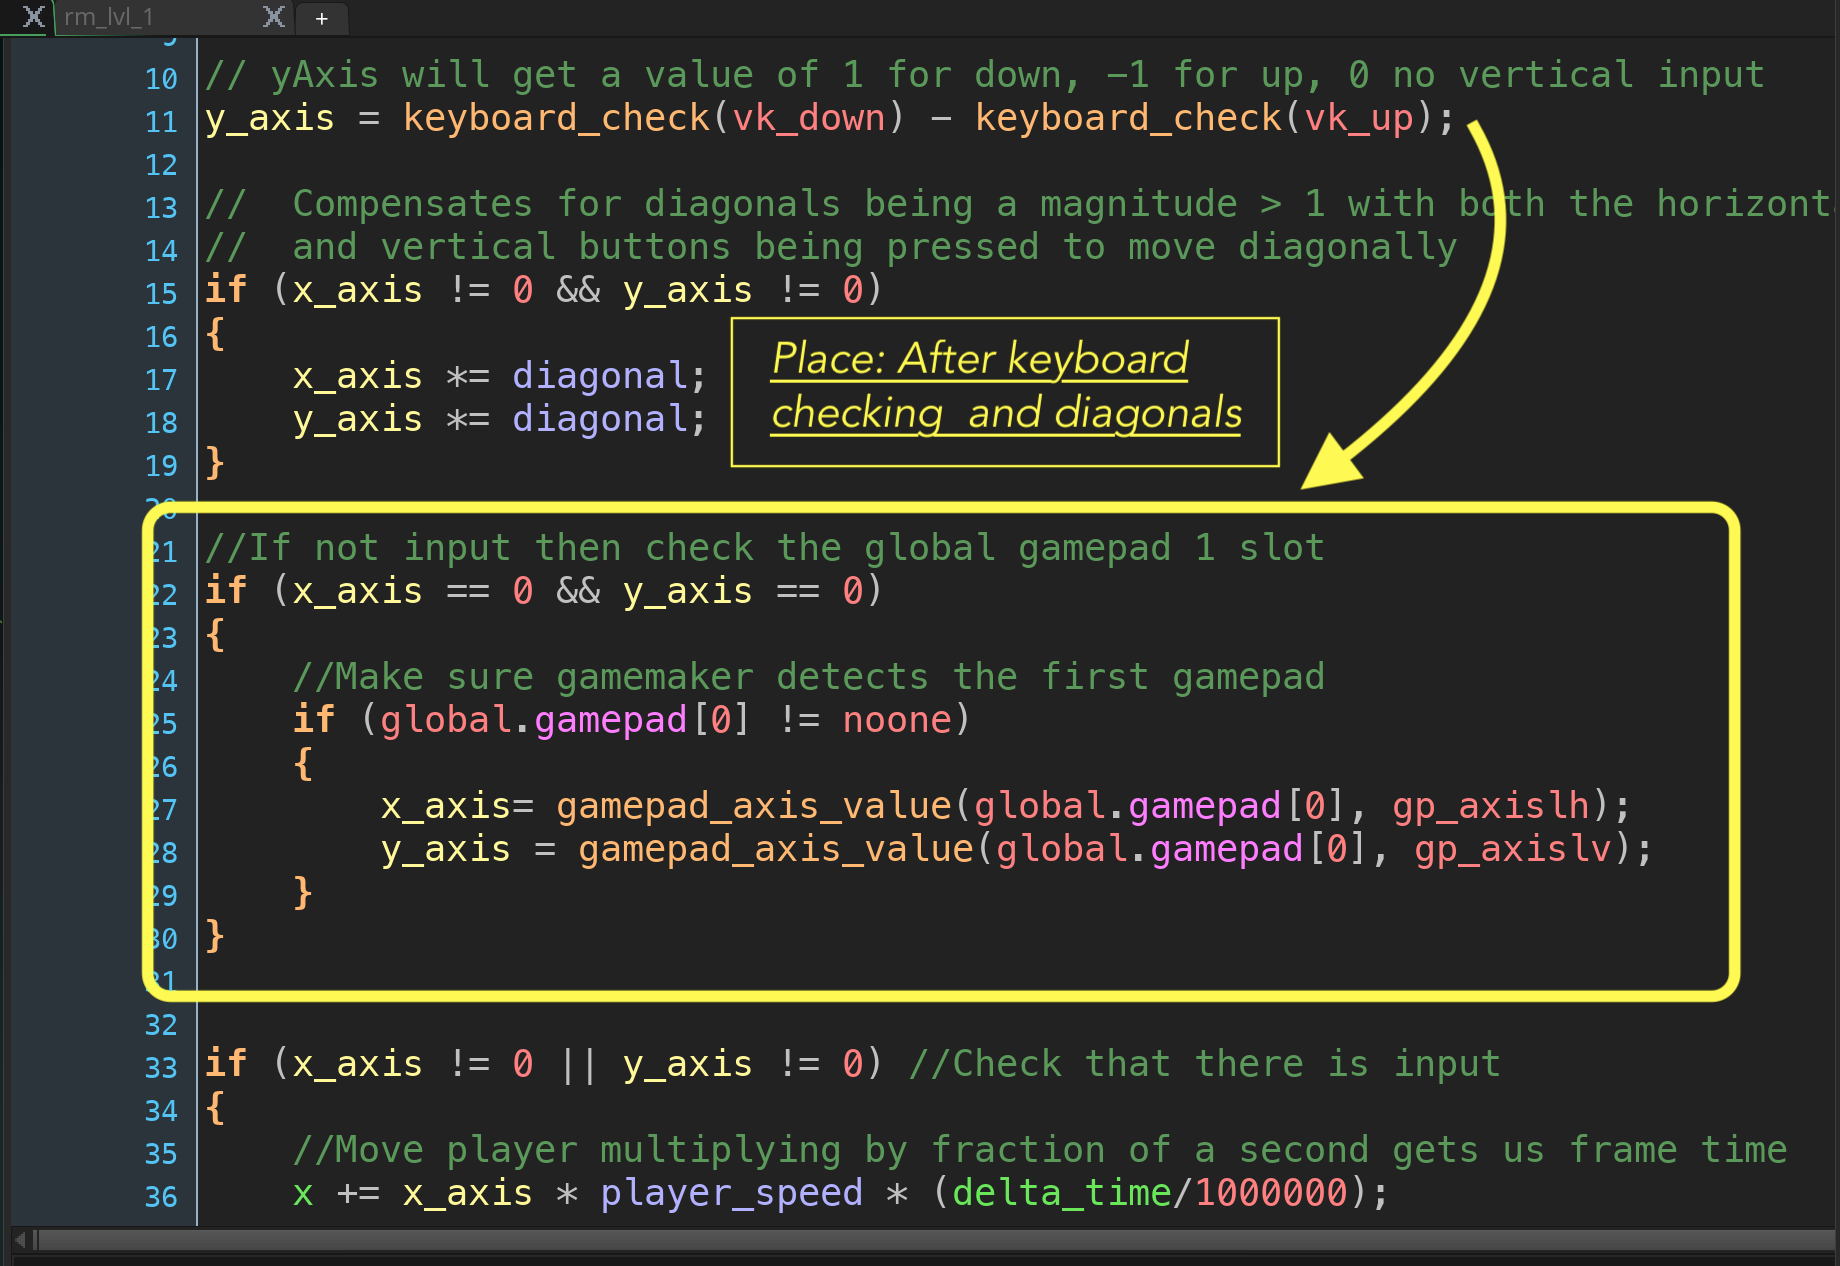
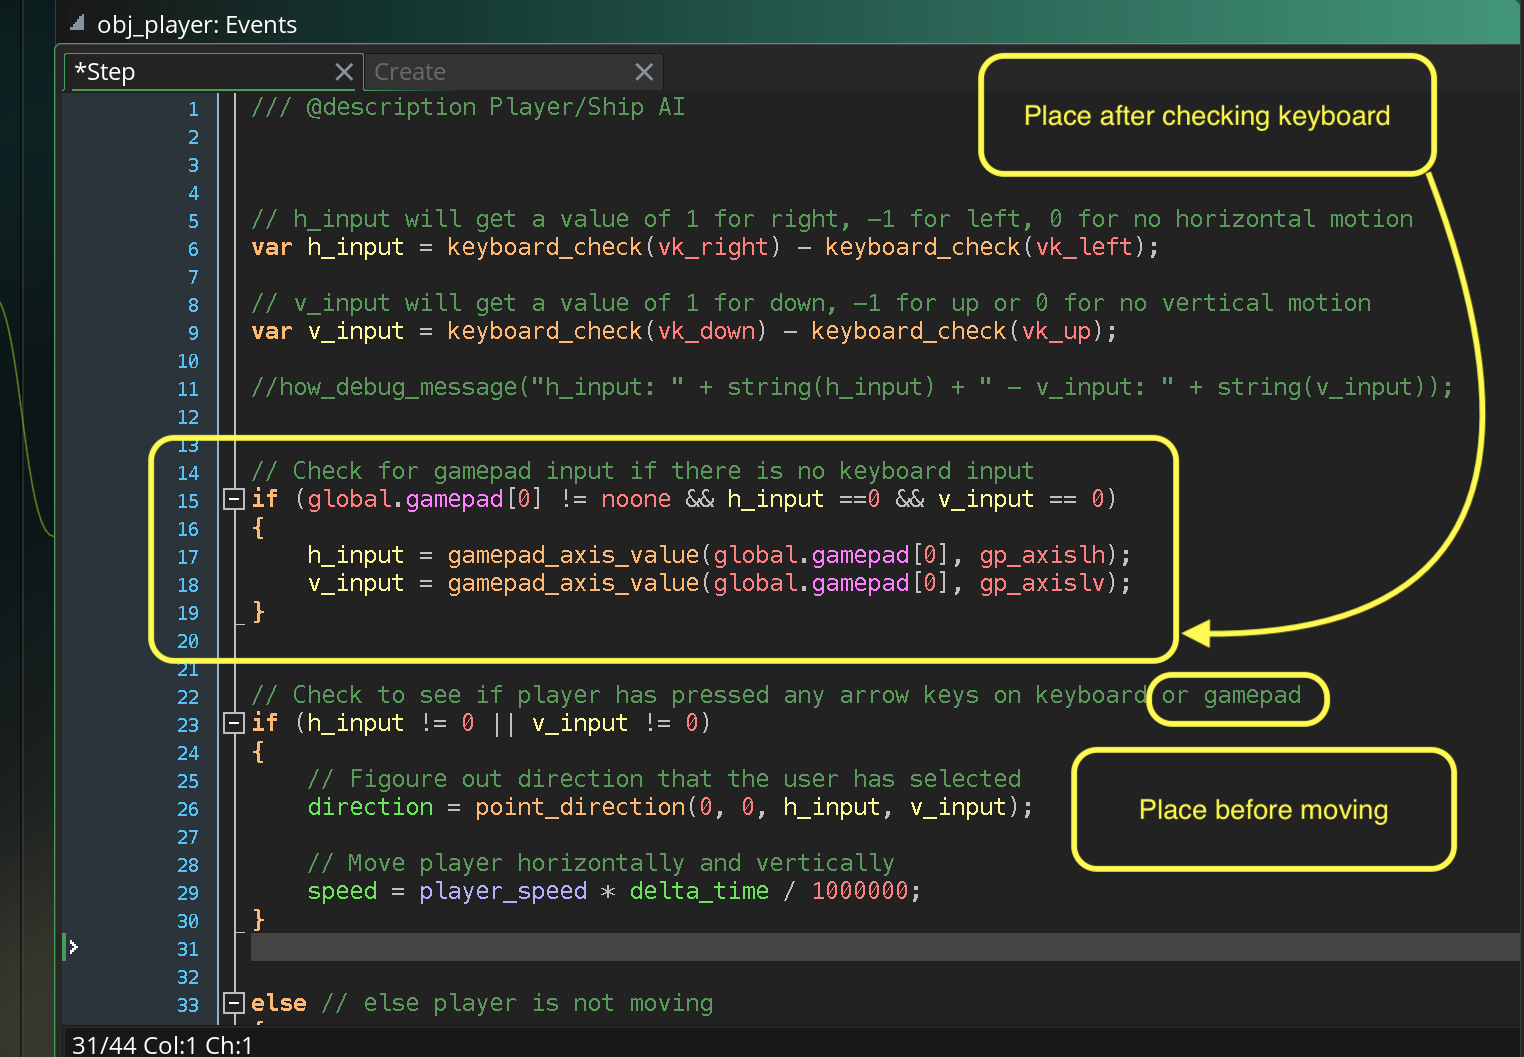
Update top down shooter

Changed region(s): [[0.0, 0.0, 1.0, 1.0]]

diff --git a/joystick/README.md b/joystick/README.md
@@ -73,13 +73,13 @@ Open **obj_player: Step** event and add controls after we check for keyboard. To
 
 We are using [gamepad_axis_value](https://manual.yoyogames.com/GameMaker_Language/GML_Reference/Game_Input/GamePad_Input/gamepad_axis_value.htm) where we can get 2D axis values for the left and right gamepad stick (we are looking for the left here). This will return a value of -1 to 1 just like when we check for the keyboard axis. Add the code after the keyboard controls but before you move the player. 
 
-![alt_text](images/AddControllerToGame.png)
+![add gamepad_axis_value to read gamepad](images/AddControllerToGame.png)
 
 <img src="https://via.placeholder.com/500x2/45D7CA/45D7CA" alt="drawing" height="2px" alt = ""/>
 
 ##### `Step 8.`\|`SPCRK`| :small_orange_diamond: :small_blue_diamond: :small_blue_diamond: :small_blue_diamond:
 
-![alt_text](images/.png)
+![alt_text](images/GameadControllingShip.gif)
 
 <img src="https://via.placeholder.com/500x2/45D7CA/45D7CA" alt="drawing" height="2px" alt = ""/>
 
